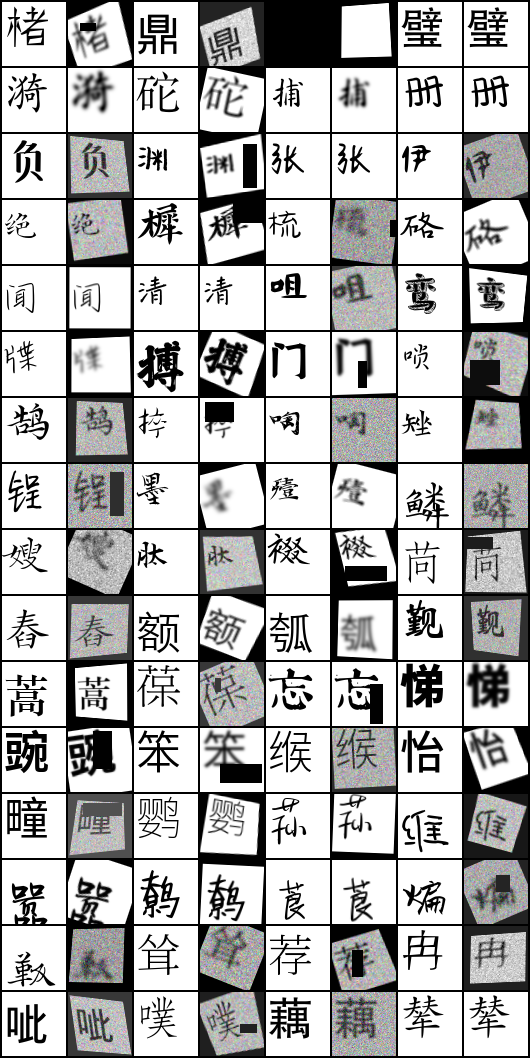
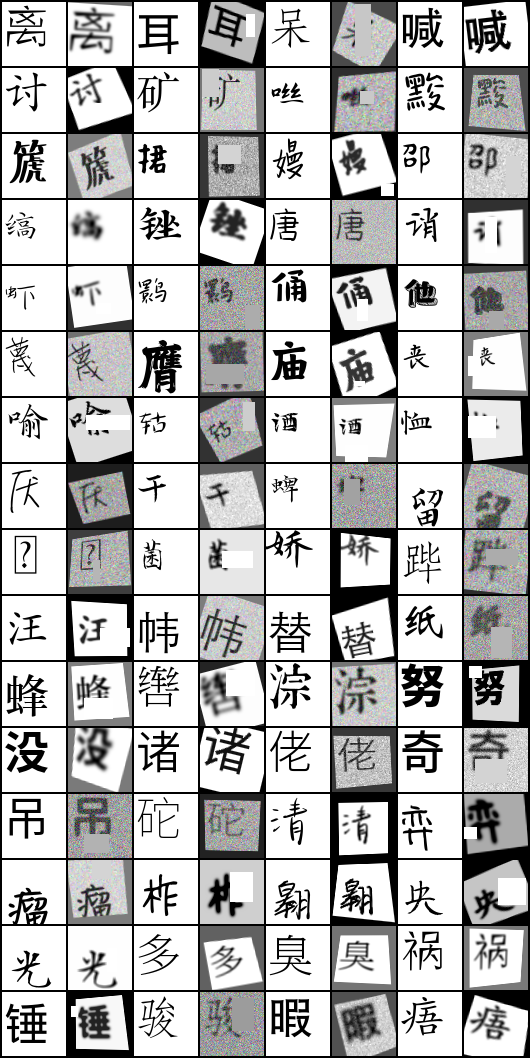
add more characters

diff --git a/src/dataset/dataAugment/transforms.py b/src/dataset/dataAugment/transforms.py
@@ -14,23 +14,23 @@ STD = (128.,)*3
 
 def augment_transforms(cfg) -> nn.Sequential:
     augs = nn.Sequential(
-        # kornia.augmentation.ColorJitter(1, 1, 1, 5, p=0.5),
+        kornia.augmentation.ColorJitter(.2, .2, .2, .2, p=0.6),
         kornia.augmentation.RandomBoxBlur(p=0.3),
-        kornia.augmentation.RandomGaussianNoise(std=50),
+        kornia.augmentation.RandomGaussianNoise(std=.25),
         kornia.augmentation.RandomPerspective(.3, p=.5),
         kornia.augmentation.RandomAffine(25, 0.1, scale=(0.95,1.1)),
-        kornia.augmentation.RandomErasing(scale=(0.01, cfg.data.augmentation.random_erase), value=1, p=0.3),
+        kornia.augmentation.RandomErasing(scale=(0.01, cfg.data.augmentation.random_erase), value=1, p=0.6),
         kornia.augmentation.RandomGrayscale(p=0.2),
         kornia.augmentation.RandomResizedCrop(
             size=[cfg.data.input_shape]*2,
             scale=(cfg.data.augmentation.resize_scale, 1.0),
-            ratio=(0.25, 1.33),
+            ratio=(0.75, 1.33),
             p=0.2
         ),
-        kornia.augmentation.Normalize(
-            mean=torch.tensor(MEAN),
-            std=torch.tensor(STD)
-        )
+        # kornia.augmentation.Normalize(
+            # mean=torch.tensor(MEAN),
+            # std=torch.tensor(STD)
+        # )
     )
     # augs = augs.to(cfg.device)
     return augs
@@ -40,8 +40,8 @@ def basic_transforms(cfg) -> T.Compose:
     return T.Compose([
         ToTensor(),
         T.Resize(size=[cfg.data.input_shape]*2),
-        T.RandomApply([T.GaussianBlur(kernel_size=11, sigma=(0.1, 2.0))])
-        # T.Normalize(mean=MEAN, std=STD)
+        T.RandomApply([T.GaussianBlur(kernel_size=11, sigma=(0.1, 2.0))]),
+        T.Normalize(mean=MEAN, std=STD)
     ])
 
 

diff --git a/src/augment_data_demo.py b/src/augment_data_demo.py
@@ -15,7 +15,7 @@ if __name__ == '__main__':
 	
 	parser = argparse.ArgumentParser()
 	parser.add_argument('--config_path', type=str, 
-						default='./experiment_configs/train.yaml',
+						default='./experiment_configs/train_triplet.yaml',
                         help='Configuration file path')
 						
 	parser.add_argument('--save_to', type=str, 
